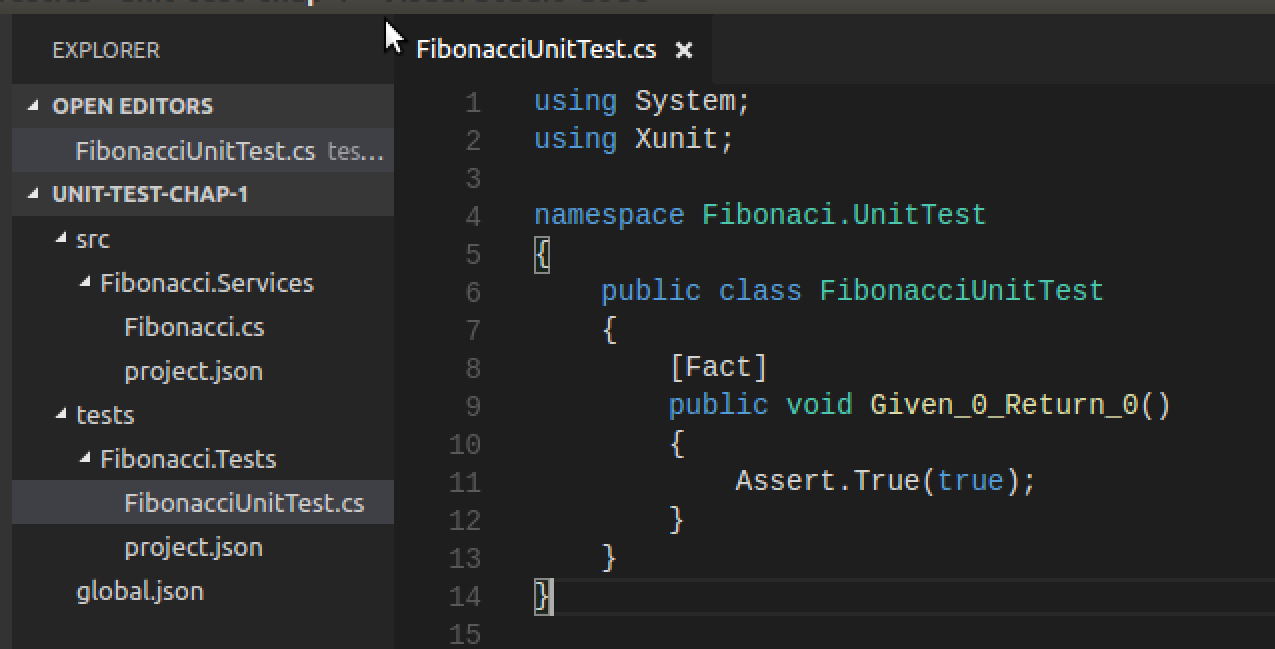
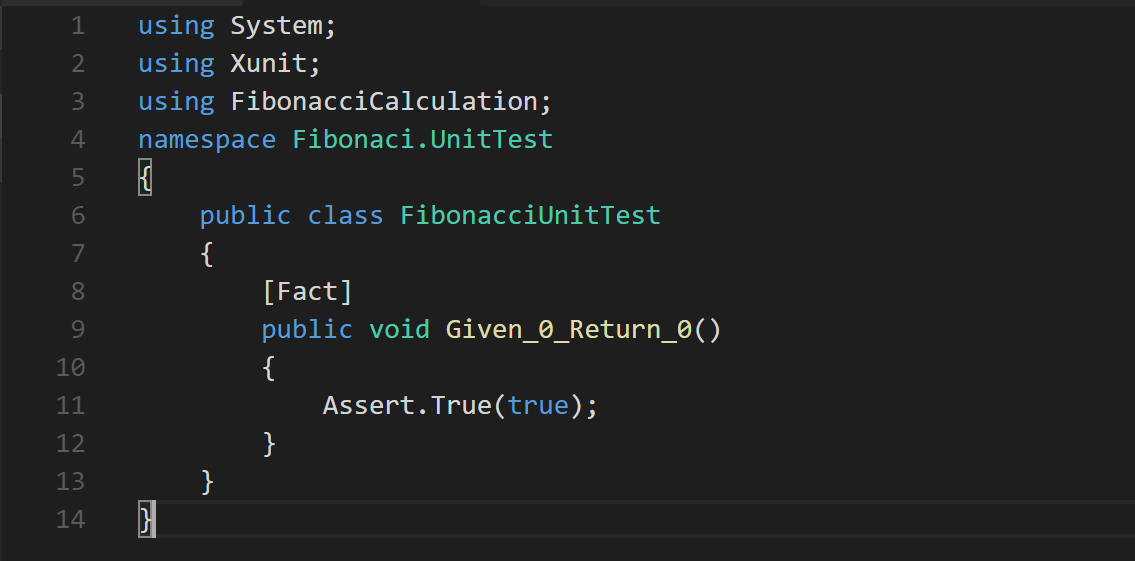
fixed issue in namespace

diff --git a/index.html b/index.html
@@ -8,7 +8,7 @@
 
 		<link rel="stylesheet" href="css/reveal.css">
 		<link rel="stylesheet" href="css/theme/league.css">
-
+		<link rel="stylesheet" href="css/custom.css">
 		<!-- Theme used for syntax highlighting of code -->
 		<link rel="stylesheet" href="lib/css/zenburn.css">
 
@@ -28,7 +28,7 @@
 					<script type="text/template">
 						## Test Driven Development 
 						### in
-						### .NET Core using XUnit
+						### .NET Core using Linux and XUnit
 
 						Ravi Mandal 
 					</script>
@@ -258,7 +258,7 @@
 						```cs
 						using System;
 						using Xunit;
-
+						using FibonacciCalculation;
 						namespace Fibonaci.UnitTest
 						{
 							public class FibonacciUnitTest
@@ -531,8 +531,8 @@
 						 ravi@nepalcloudug.org
 						### Twitter / Github / Facebook : ravimandal47
 						
-						##### Get slides
-						##### http://tdd-dotnet-linux.slides.rvimandal.com/
+						##### Get source code
+						##### http://bit.ly/dnc-ut-chap1
 						
 					</script>
 				</section>

diff --git a/css/custom.css b/css/custom.css
@@ -1,0 +1,8 @@
+.reveal h1,
+.reveal h2,
+.reveal h3,
+.reveal h4,
+.reveal h5,
+.reveal h6 {
+   text-transform: none; 
+  }
